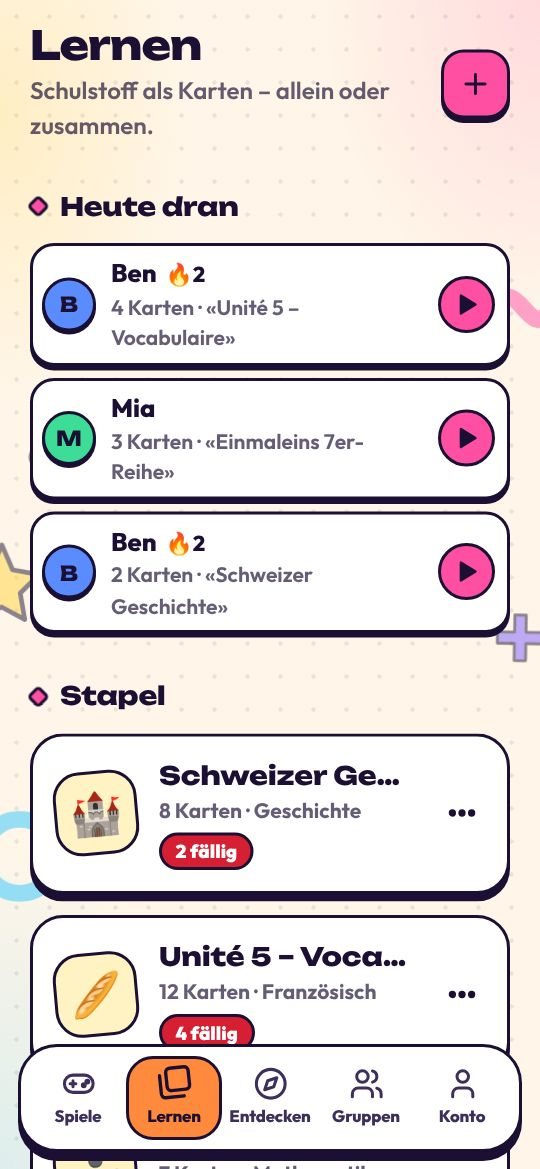
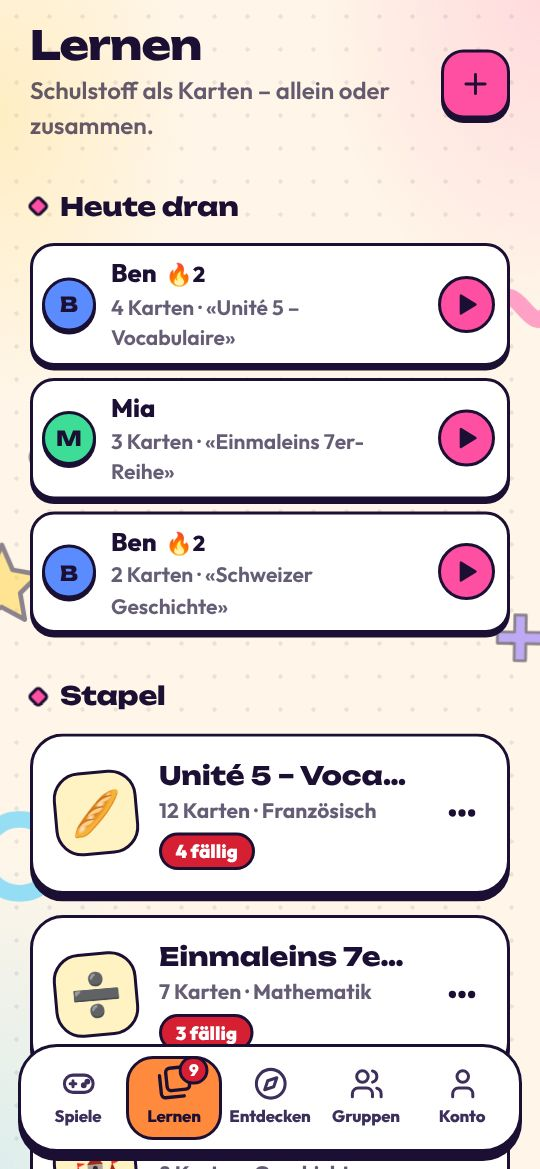
Fällige Karten in «Lernen»: Badge auf dem Tab statt Kachel auf der Startseite
- Die Kachel «Heute fällig» ist von der Startseite verschwunden – die Zeilen
  pro Person und Stapel stehen in «Heute dran» im Tab «Lernen»
- Das Symbol des Tabs «Lernen» trägt einen roten Badge mit der Zahl aller
  fälligen Karten (alle Personen, alle Stapel; ab 100 «99+»); Screenreader
  hören «Lernen, 7 Karten fällig»
- useDueTotal; LearnDue enthält nur noch die Zeilen (DueRows)
- Browser-Test: kein Lernen auf der Startseite, Badge auf dem Tab, ein Tipp in
  «Heute dran» bis zur Karte, Badge verschwindet nach der Runde
- Doku und README-Screenshot nachgeführt

Claude-Session: https://claude.ai/code/session_01J27dxZDKyJYiUyUtZZQLiE

diff --git a/e2e/spickzettel.spec.ts b/e2e/spickzettel.spec.ts
@@ -23,7 +23,7 @@ async function learnRound(page: Page, wrong: string[] = []): Promise<string> {
   return result;
 }
 
-test('Lernen: Einführung, Stapelseite, allein ohne Gruppe und ein Tipp von der Startseite', async ({ page }) => {
+test('Lernen: Einführung, Stapelseite, allein ohne Gruppe, Badge auf dem Tab und ein Tipp bis zur Karte', async ({ page }) => {
   await register(page, 'Nora');
   await page.locator('.tabbar a[href="/lernen"]').click();
   await expect(page.locator('.learn-intro__steps li')).toHaveCount(3);
@@ -51,21 +51,30 @@ test('Lernen: Einführung, Stapelseite, allein ohne Gruppe und ein Tipp von der 
   await expect(page).toHaveURL(/\/lernen\/[^/]+$/);
   await expect(page.locator('.learn-panel__status')).toHaveText('Heute fällig: 1 Karte');
 
-  // The start page and the «Lernen» tab: one tap to the card that is due.
+  // The start page has no learning rows – the «Lernen» tab shows the cards due as a badge.
   await page.goto('/');
+  await expect(page.locator('.learn-due__row')).toHaveCount(0);
+  const tab = page.locator('.tabbar a[href="/lernen"]');
+  await expect(tab.locator('.tabbar__badge')).toHaveText('1');
+  await expect(tab).toHaveAccessibleName('Lernen, 1 Karte fällig');
+  await expectAccessible(page);
+  // In «Lernen»: one tap to the card that is due.
+  await tab.click();
   const row = page.locator('.learn-due__row');
   await expect(row).toHaveCount(1);
   await expect(row).toContainText('Nora');
   await expect(row).toContainText('1 Karte · «Einmaleins»');
+  await expect(page.locator('.group-card', { hasText: 'Einmaleins' }).locator('.due-pill')).toHaveText('1 fällig');
   await expectAccessible(page);
   await row.click();
   await expect(page.locator('.learn-card__prompt')).toHaveText('7 × 8');
-  await endGame(page);
-  await expect(page).toHaveURL('/');
-  await page.goto('/lernen');
-  await expect(page.locator('.learn-due__row')).toContainText('Nora');
-  await expect(page.locator('.group-card', { hasText: 'Einmaleins' }).locator('.due-pill')).toHaveText('1 fällig');
-  await expectAccessible(page);
+  await page.getByRole('button', { name: 'Antwort zeigen' }).click();
+  await page.getByRole('button', { name: 'Gewusst', exact: true }).click();
+  await expect(page.locator('.result-banner__title')).toHaveText('1 von 1 gewusst');
+  await page.getByRole('button', { name: 'Fertig' }).click();
+  await expect(page).toHaveURL(/\/lernen$/);
+  // Nothing due any more: no badge.
+  await expect(tab.locator('.tabbar__badge')).toHaveCount(0);
 });
 
 test('Kartenkasten: Antwortart pro Person, Eintippen wird grosszügig geprüft', async ({ page }) => {

diff --git a/client/src/components/Layout.tsx b/client/src/components/Layout.tsx
@@ -3,6 +3,7 @@ import { createPortal } from 'react-dom';
 import { NavLink, useLocation, useNavigate } from 'react-router';
 import { Icon, type IconName } from './Icon.tsx';
 import { haptic } from '../lib/device.ts';
+import { useDueTotal } from '../store/learners.ts';
 import { dismissToast, useUi } from '../store/ui.ts';
 
 type ShapeKind = 'star' | 'squiggle' | 'ring' | 'triangle' | 'plus' | 'dot';
@@ -55,6 +56,8 @@ const TABS: { to: string; label: string; icon: IconName; color: string }[] = [
 
 export function TabBar() {
   const { pathname } = useLocation();
+  // Cards to repeat today – shown as a red badge on «Lernen».
+  const due = useDueTotal();
   const active = Math.max(
     0,
     TABS.findIndex((tab) => (tab.to === '/' ? pathname === '/' : pathname.startsWith(tab.to))),
@@ -71,11 +74,19 @@ export function TabBar() {
           key={tab.to}
           to={tab.to}
           end={tab.to === '/'}
+          aria-label={tab.to === '/lernen' && due > 0 ? `${tab.label}, ${due} ${due === 1 ? 'Karte' : 'Karten'} fällig` : undefined}
           className="tabbar__item"
           onClick={() => haptic(6)}
           viewTransition
         >
-          <Icon name={tab.icon} size={23} />
+          <span className="tabbar__icon">
+            <Icon name={tab.icon} size={23} />
+            {tab.to === '/lernen' && due > 0 && (
+              <span className="tabbar__badge" aria-hidden="true">
+                {due > 99 ? '99+' : due}
+              </span>
+            )}
+          </span>
           <span>{tab.label}</span>
         </NavLink>
       ))}

diff --git a/client/src/components/LearnDue.tsx b/client/src/components/LearnDue.tsx
@@ -1,12 +1,9 @@
 import { Link } from 'react-router';
 import { soloLearnPath } from '../games/spickzettel/modes.ts';
-import { useDueList, useStreaks, type DueEntry } from '../store/learners.ts';
+import { useStreaks, type DueEntry } from '../store/learners.ts';
 import { Icon } from './Icon.tsx';
 import { Streak } from './LearnerPicker.tsx';
 import { Avatar } from './ui.tsx';
-
-/** Rows shown on the start page – the rest is one tap away. */
-const SHOWN = 3;
 
 /** One row per person and stack with cards due – one tap starts the first card. */
 export function DueRows({ entries }: { entries: DueEntry[] }) {
@@ -34,25 +31,5 @@ export function DueRows({ entries }: { entries: DueEntry[] }) {
         </li>
       ))}
     </ul>
-  );
-}
-
-/** «Heute fällig» on the start page. */
-export function LearnDue() {
-  const due = useDueList();
-  if (due.length === 0) return null;
-  const more = due.length - SHOWN;
-  return (
-    <section className="learn-due" aria-labelledby="learn-due-title">
-      <h2 className="learn-due__title" id="learn-due-title">
-        <span aria-hidden="true">📚</span> Heute fällig
-      </h2>
-      <DueRows entries={due.slice(0, SHOWN)} />
-      {more > 0 && (
-        <Link to="/lernen" className="learn-due__more" viewTransition>
-          und {more} {more === 1 ? 'weiterer Kartenkasten' : 'weitere Kartenkästen'}
-        </Link>
-      )}
-    </section>
   );
 }

diff --git a/client/src/store/learners.ts b/client/src/store/learners.ts
@@ -3,7 +3,7 @@ import type { LearnStack, Player } from '../../../shared/types.ts';
 import { kastenStatus, learnStreak } from '../lib/learn.ts';
 import { collectLearners, defaultLearner, learnerColor, learnerId, sameName } from '../lib/learners.ts';
 import { useAuth } from './auth.ts';
-import { useData } from './data.ts';
+import { useData, useDueByStack } from './data.ts';
 import { useSettings } from './settings.ts';
 
 /** Everyone who can learn this stack (see collectLearners). */
@@ -81,4 +81,10 @@ export function useStreaks(): (name: string) => number {
       return cache.get(name)!;
     };
   }, [progress]);
+}
+
+/** All cards due again today, over everyone and every stack – the badge on the «Lernen» tab. */
+export function useDueTotal(): number {
+  const due = useDueByStack();
+  return Object.values(due).reduce((sum, n) => sum + n, 0);
 }

diff --git a/client/src/styles/pages.css b/client/src/styles/pages.css
@@ -1875,22 +1875,7 @@
   margin-bottom: 16px;
 }
 
-/* «Heute fällig» on the start page: one row per person and stack, one tap starts learning. */
-.learn-due {
-  margin-top: 18px;
-  padding: 12px 12px 10px;
-  border-radius: var(--radius-lg);
-  border: var(--border);
-  background: var(--yellow-soft);
-  box-shadow: var(--shadow);
-}
-
-.learn-due__title {
-  margin: 0 0 8px 4px;
-  font-family: var(--font-display);
-  font-size: 18px;
-}
-
+/* «Heute dran» in «Lernen»: one row per person and stack, one tap starts learning. */
 .learn-due__list {
   display: grid;
   gap: 8px;
@@ -1948,14 +1933,6 @@
   border-radius: 50%;
   border: 2.5px solid var(--ink);
   background: var(--pink);
-  color: var(--ink);
-}
-
-.learn-due__more {
-  display: inline-block;
-  margin: 8px 0 0 4px;
-  font-size: 14px;
-  font-weight: 800;
   color: var(--ink);
 }
 

diff --git a/client/src/styles/components.css b/client/src/styles/components.css
@@ -899,6 +899,32 @@
   transition: transform 0.35s var(--ease-spring);
 }
 
+.tabbar__icon {
+  position: relative;
+  display: grid;
+}
+
+/* Cards due today on «Lernen»: a small red sticker on the icon. */
+.tabbar__badge {
+  position: absolute;
+  top: -7px;
+  left: calc(100% - 9px);
+  display: grid;
+  place-items: center;
+  min-width: 19px;
+  height: 19px;
+  padding: 0 5px;
+  border-radius: 999px;
+  border: 2px solid var(--ink);
+  background: var(--due-red);
+  color: #fff;
+  font-size: 11px;
+  font-weight: 900;
+  line-height: 1;
+  font-variant-numeric: tabular-nums;
+  animation: badge-in 0.45s var(--ease-spring) both;
+}
+
 .tabbar__item.active {
   color: var(--ink);
 }

diff --git a/client/src/pages/HomePage.tsx b/client/src/pages/HomePage.tsx
@@ -3,7 +3,6 @@ import { Logo } from '../components/Brand.tsx';
 import { GameHero, GameMini, GameTile } from '../components/GameCard.tsx';
 import { Icon } from '../components/Icon.tsx';
 import { OfflinePill } from '../components/Layout.tsx';
-import { LearnDue } from '../components/LearnDue.tsx';
 import { PasskeyHint } from '../components/PasskeyHint.tsx';
 import { Avatar, EmptyState } from '../components/ui.tsx';
 import { GAMES, getCatalogGame } from '../games/registry.ts';
@@ -89,7 +88,6 @@ export function HomePage() {
           </div>
         ) : null}
 
-        <LearnDue />
 
         <PasskeyHint />
 

diff --git a/README.md b/README.md
@@ -49,7 +49,7 @@ Im Tab **📝 Lernen** wird Schulstoff zum Spiel: Wörtliblatt fotografieren, ei
 | **Entdecken** | «Spiel des Tages» · Filter «Wie viele seid ihr?» · Volltextsuche (umlaut-tolerant) und Kategorien · Spiele mit einem Tipp hinzufügen/entfernen |
 | **Spielgruppen** | Gruppen mit Namen, Symbol und Mitspielenden anlegen · beim Spielstart wird die Gruppe angezeigt und kann direkt angepasst werden (Personen hinzufügen/entfernen) |
 | **Spiele** | 17 Partyspiele mit über 2’500 Begriffen, Fragen und Karten – siehe Tabelle unten |
-| **Lernen** | Eigener Bereich (Tab), kein Spiel im Katalog · Spielformen: **Kartenkasten** (Lernkartei mit 5 Fächern, Lernstand und Lernserie pro Person, allein ohne Spielgruppe; aufdecken, Auswahl aus vier oder eintippen), **Lückentext** (Wortbank oder eintippen), **Duell** (zu zweit, geteilter Bildschirm), **Blitzrunde** (Teams, eine Person fragt ab), **Schätzrunde** (Zahlen und Jahreszahlen, alle schätzen geheim) · «Heute dran» (wer welche Karten wiederholen soll, ein Tipp startet die erste Karte) und alle Stapel · Stapelseite mit «Wer lernt?» (ohne Spielgruppe), Kartenkasten mit Fächern und Antwortart pro Person, Lückentext und den Spielformen zum Zusammenspielen · Lernstoff per Foto erfassen (bis 6 Seiten; Auswertung mit einem Qwen-Modell bei Infomaniak in der Schweiz, Fotos werden nicht gespeichert) oder abtippen · erkannte Karten prüfen und korrigieren · Monatslimit pro Person · Stapel und Lernstand werden synchronisiert · **per Link teilen** (der Link gilt als Einladung, Empfänger übernehmen eine eigene Kopie) |
+| **Lernen** | Eigener Bereich (Tab, mit rotem Badge für alle fälligen Karten), kein Spiel im Katalog · Spielformen: **Kartenkasten** (Lernkartei mit 5 Fächern, Lernstand und Lernserie pro Person, allein ohne Spielgruppe; aufdecken, Auswahl aus vier oder eintippen), **Lückentext** (Wortbank oder eintippen), **Duell** (zu zweit, geteilter Bildschirm), **Blitzrunde** (Teams, eine Person fragt ab), **Schätzrunde** (Zahlen und Jahreszahlen, alle schätzen geheim) · «Heute dran» (wer welche Karten wiederholen soll, ein Tipp startet die erste Karte) und alle Stapel · Stapelseite mit «Wer lernt?» (ohne Spielgruppe), Kartenkasten mit Fächern und Antwortart pro Person, Lückentext und den Spielformen zum Zusammenspielen · Lernstoff per Foto erfassen (bis 6 Seiten; Auswertung mit einem Qwen-Modell bei Infomaniak in der Schweiz, Fotos werden nicht gespeichert) oder abtippen · erkannte Karten prüfen und korrigieren · Monatslimit pro Person · Stapel und Lernstand werden synchronisiert · **per Link teilen** (der Link gilt als Einladung, Empfänger übernehmen eine eigene Kopie) |
 | **Sound & Stimme** | Eigenes Sounddesign pro Spiel (Trommelwirbel, Herzschlag, Fanfaren …, alles synthetisiert) · natürliche Erzählstimmen «Thorsten» und «Kerstin» vom eigenen Server (Piper) – auf jedem Gerät gleich, auch auf dem iPhone, Ansagen offline verfügbar; sonst die beste Stimme des Geräts · Stimmenauswahl mit Hörprobe unter Konto → Erzählstimme |
 | **PWA** | Installierbar (Android & iOS) · komplett offline spielbar · Offline-Änderungen werden automatisch synchronisiert · Update-Hinweis bei neuer Version · Bildschirm bleibt während des Spiels an |
 

diff --git a/docs/KONZEPT-LERNSTAPEL.md b/docs/KONZEPT-LERNSTAPEL.md
@@ -199,8 +199,8 @@ interface Karte {
   Person, die überhaupt lernt), startet gleich die erste Runde; sonst fragt «Wer lernt?».
 - **Spielformen nach Situation:** «Allein» (Kartenkasten, Lückentext), «Zu zweit» (Duell), «Mit mehreren»
   (Blitzrunde, Schätzrunde). Was der Stapel nicht hergibt (`modeFits`), wird nicht angeboten.
-- **«Heute fällig» auf der Startseite:** Sobald jemand Karten gelernt hat und welche wieder fällig sind, zeigt die
-  Startseite eine Zeile pro Person und Stapel («Lea · 7 Karten · «Unité 5»», höchstens drei). Ein Tipp startet
+- **«Heute fällig»** (zuerst auf der Startseite, heute «Heute dran» im Tab «Lernen»): Sobald jemand Karten gelernt
+  hat und welche wieder fällig sind, erscheint eine Zeile pro Person und Stapel («Lea · 7 Karten · «Unité 5»»). Ein Tipp startet
   direkt die erste fällige Karte (`/lernen/<stapel>/kasten?person=Lea`). Neue, noch nie gelernte Karten zählen
   nicht – die Erinnerung soll ans Repetieren erinnern, nicht drängen.
 - **Stand pro Person auf einen Blick:**
@@ -264,7 +264,7 @@ direkt in die erste Runde, wenn klar ist, wer lernt – sonst auf die Stapelseit
 | Ablauf | Vorher | Jetzt |
 |---|---|---|
 | Neues Blatt → erste Karte | 10 Tipps + Name eintippen | 6 Tipps; ein neuer Name nur einmal |
-| Fällige Karten lernen | 3 Tipps | 1 Tipp («Heute fällig» auf der Startseite oder «Heute dran») |
+| Fällige Karten lernen | 3 Tipps | 2 Tipps (Tab «Lernen» mit Badge, dann die Zeile in «Heute dran») |
 
 **Ein Ort, ein Name:** Nach Etappe 2 gab es zwei Wege zu denselben Entscheidungen – Stapel und Spielform liessen
 sich im Tab «Lernen» und nochmals auf dem Startbildschirm des Spiels wählen, und es hiess mal «Spickzettel», mal
@@ -279,6 +279,10 @@ sich im Tab «Lernen» und nochmals auf dem Startbildschirm des Spiels wählen, 
 - Den Startbildschirm `/spiel/spickzettel` gibt es nicht mehr; er leitet weiter (`GameDefinition.pathFor`).
 - Die Stapelliste in «Lernen» zeigt zuerst Stapel mit fälligen Karten, dann die zuletzt gelernten oder bearbeiteten
   (`recommendStacks`), ab 7 Stapeln mit Suche nach Titel oder Fach.
+- Fällige Karten gehören zu «Lernen», nicht auf die Startseite der Spiele: Die Zeilen «Heute fällig» sind von der
+  Startseite in «Heute dran» umgezogen. Dafür trägt das Symbol des Tabs «Lernen» einen roten Badge mit der Zahl
+  aller fälligen Karten (alle Personen, alle Stapel, `useDueTotal`; Screenreader: «Lernen, 7 Karten fällig»). Neue,
+  noch nie gelernte Karten zählen nicht mit.
 
 ## Offene Punkte
 
